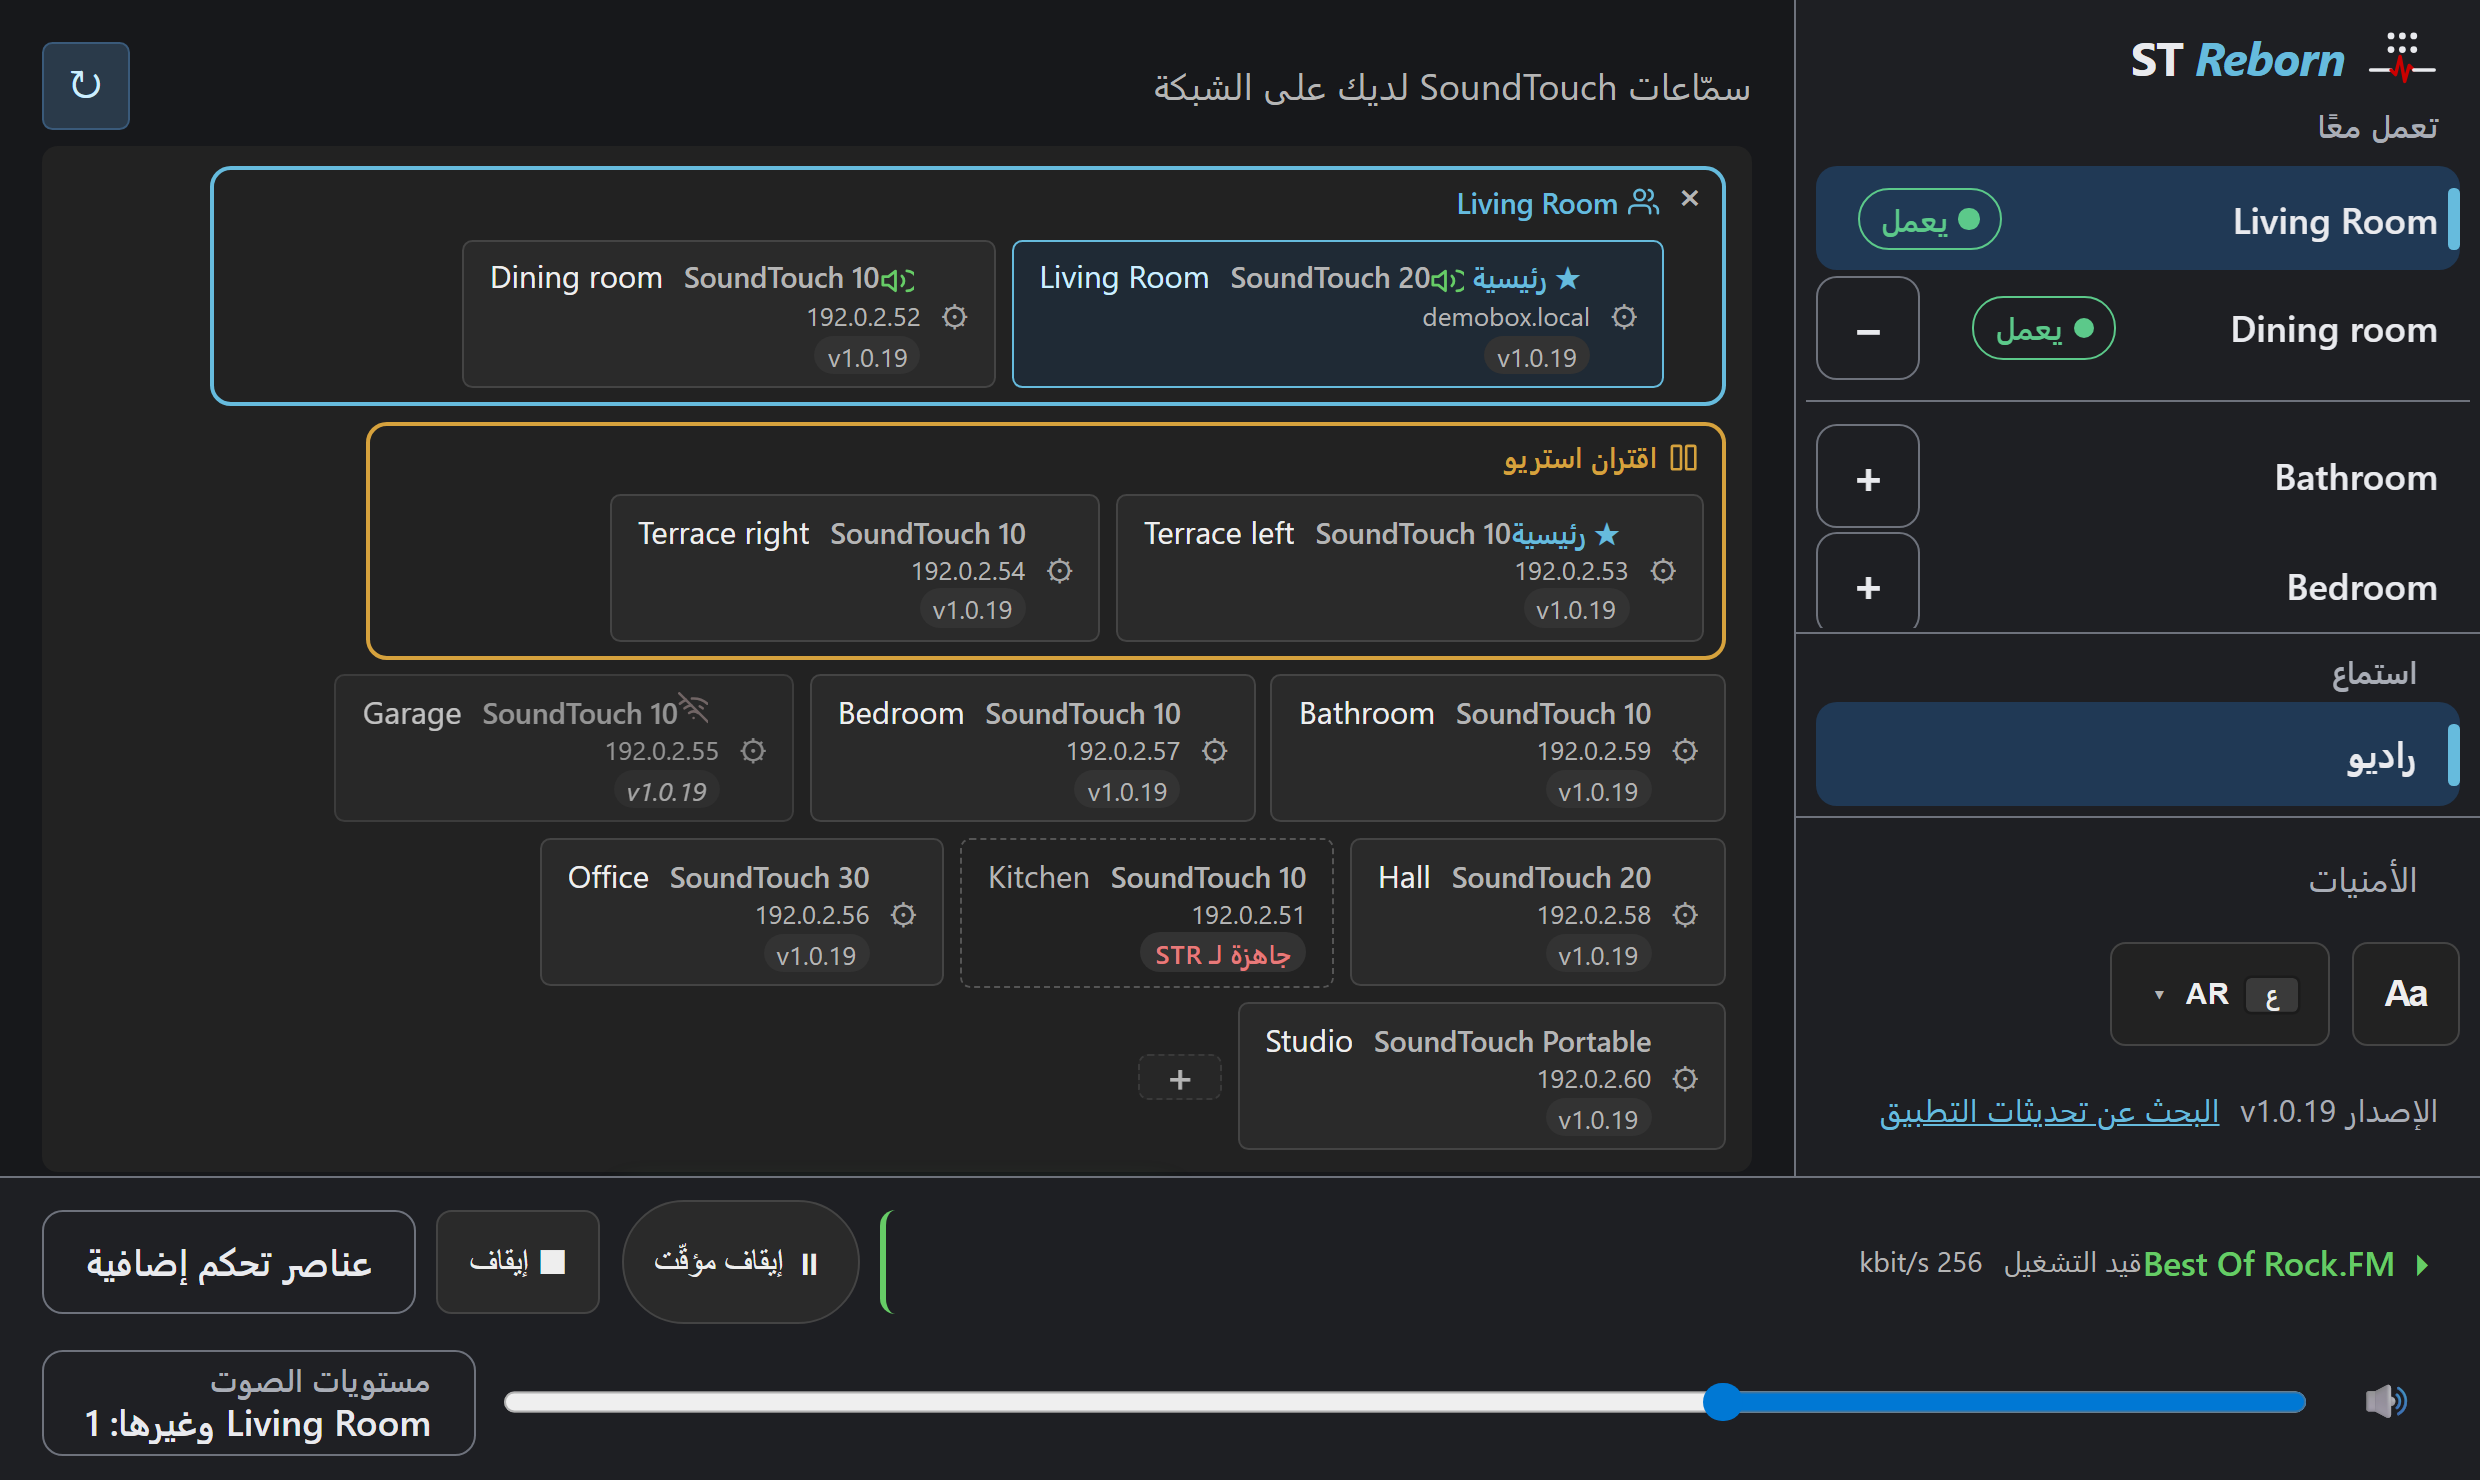
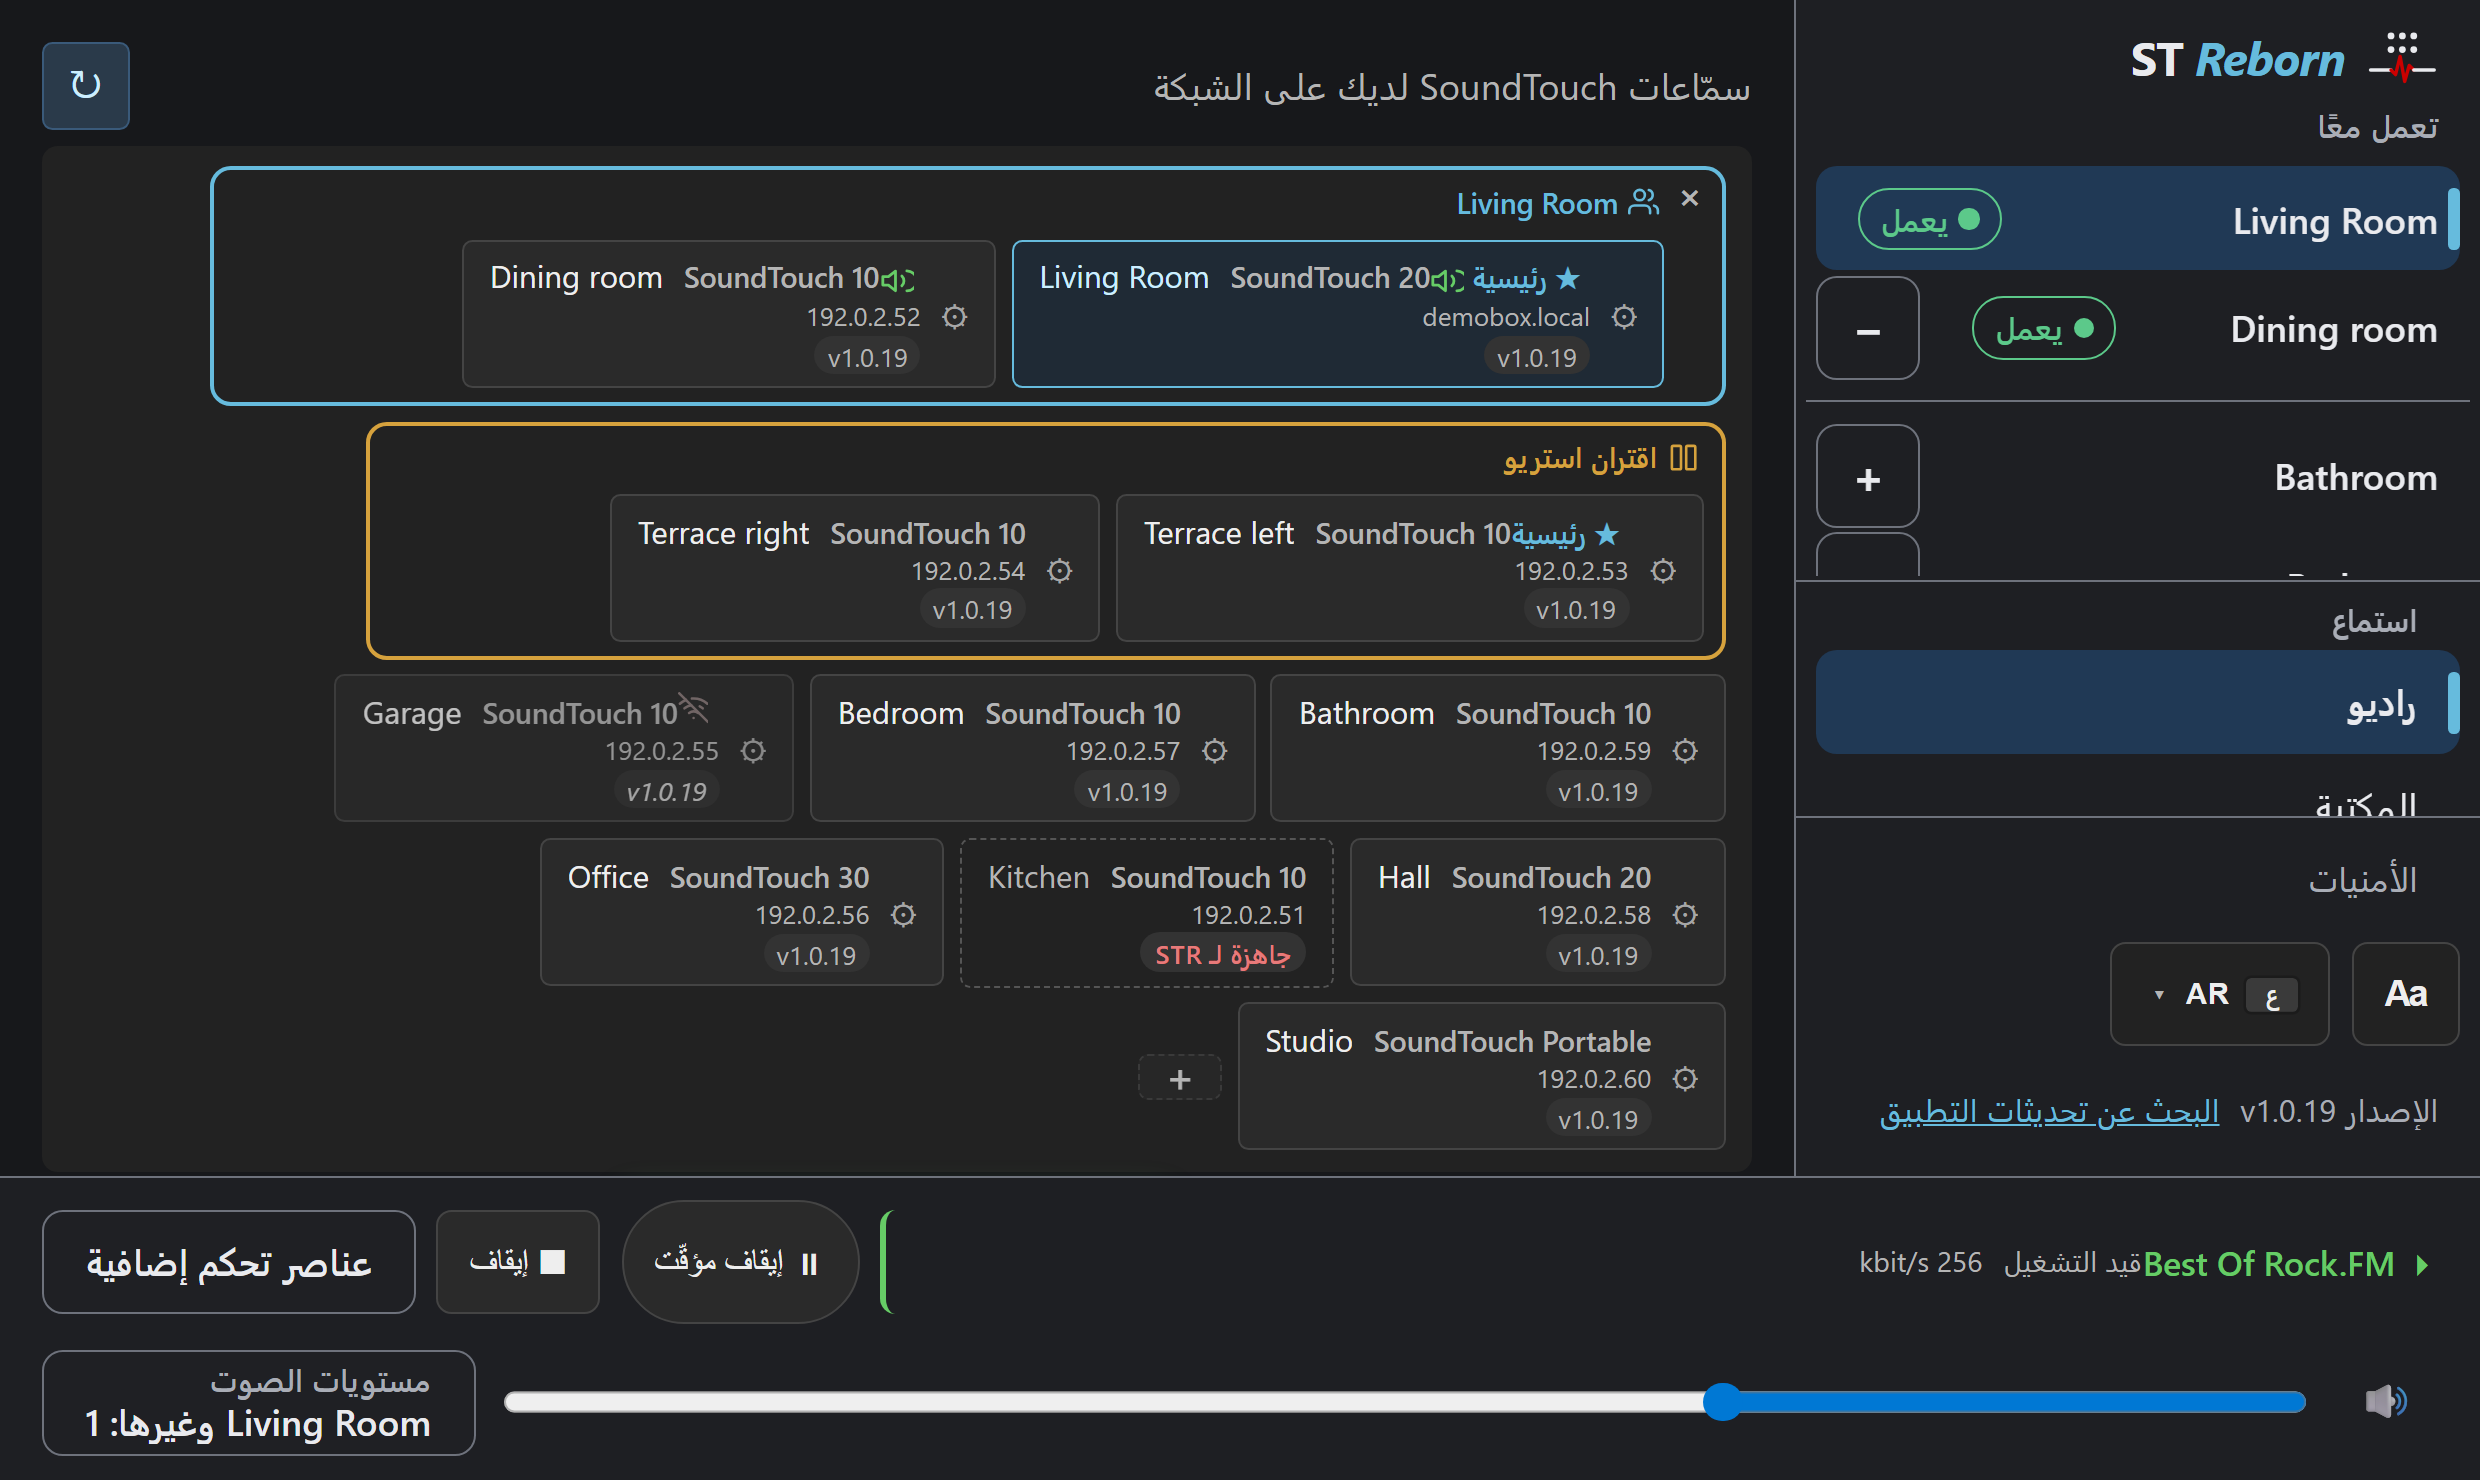
fix(app): in the UI 2.0 preview, the sidebar menu stays usable at extra large text in a small window
At Extra large text in the 1000 x 600 window with a group playing, the
speaker section held a floor of the pinned group plus a row and a half of
the others no matter what, which squeezed the navigation entries to
nothing: Speaker settings was drawn under the Office row and the Aa /
language buttons and could not be clicked.

holdSpeakerFloor now keeps at least one and a half navigation entries in
every window; below the lists' own floor the speaker section becomes one
scroll box (is-squeezed) cut at a whole or half row, with the first row
always whole. rowsHeight now measures in layout units: the client rect it
used is scaled by the text-size zoom and came out a third too tall at
Extra large. The layout e2e checks that every sidebar entry takes a click
in every text size, layout and window, and the fixme is gone. The UI 2.0
Extra large screenshots are reshot (en, de, ar).

Claude-Session: https://claude.ai/code/session_01X9HSf1oekN41MYWuSpNkob

Changed region(s): [[0.7141, 0.373, 0.9935, 0.5595], [0.7452, 0.373, 0.7762, 0.4041]]

diff --git a/desktop-app/frontend/src/shell2/mount.js b/desktop-app/frontend/src/shell2/mount.js
@@ -476,11 +476,13 @@ function paintSpeakers(force) {
     const keepHost = inList ? active.dataset.host : '';
     const keepAct = inList && active.classList.contains('ui2-spk-act');
     const scrolls = [...lists.querySelectorAll('.ui2-spk-scroll, .ui2-spk-pinned .ui2-spk-list')].map((el) => el.scrollTop);
+    const listsTop = lists.scrollTop;
     lists.innerHTML = sidebarHTML(model, { focusHost: keepHost || rovingHost });
+    holdSpeakerFloor(lists);
     [...lists.querySelectorAll('.ui2-spk-scroll, .ui2-spk-pinned .ui2-spk-list')].forEach((el, i) => {
       if (typeof scrolls[i] === 'number') el.scrollTop = scrolls[i];
     });
-    holdSpeakerFloor(lists);
+    lists.scrollTop = listsTop;
     if (keepHost) {
       const sel = (cls) => [...lists.querySelectorAll(cls)].find((b) => b.dataset.host === keepHost);
       const again = (keepAct && sel('.ui2-spk-act')) || sel('.ui2-spk-pick');
@@ -503,11 +505,17 @@ function paintSpeakers(force) {
 //
 // In a window too short for that (a large text size, a low window) the floor
 // is held back so two and a half navigation entries and everything below them
-// stay on screen; the others then keep at least one row and a half. The
-// sidebar's own size is watched, so a resize or a text size change sets the
-// floor again.
+// stay on screen; the others then keep at least one row and a half, as long as
+// that leaves the entries one and a half. When even that is too much (Extra
+// large in the smallest window), the entries keep one and a half and the
+// speakers get the rest, at least their first row whole. Below the floor of the
+// two lists the section turns into one scroll box (is-squeezed): the pinned
+// group and the others scroll together inside it, and nothing in the sidebar
+// is ever drawn over anything else. The sidebar's own size is watched, so a
+// resize or a text size change sets the floor again.
 const OTHERS_FLOOR_ROWS = 3;
 const NAV_RESERVE_ENTRIES = 2.5;
+const NAV_LEAST_ENTRIES = 1.5;
 let floorWatch = null;
 let floorWatched = null;
 function holdSpeakerFloor(lists) {
@@ -523,6 +531,8 @@ function holdSpeakerFloor(lists) {
     floorWatch.observe(side);
     floorWatched = side;
   }
+  // Measured as the two capped lists, never as the one squeezed scroll box.
+  section.classList.remove('is-squeezed');
   const pinned = lists.querySelector('.ui2-spk-pinned');
   const pinnedList = pinned && pinned.querySelector('.ui2-spk-list');
   const scroll = lists.querySelector('.ui2-spk-scroll');
@@ -532,28 +542,68 @@ function holdSpeakerFloor(lists) {
   const others = scroll ? rowsHeight(scroll, OTHERS_FLOOR_ROWS) : 0;
   const pad = Math.max(0, section.offsetHeight - lists.offsetHeight);
   let floor = pinnedH + others + pad;
+  // squeezed: the floor leaves less than the pinned group at its least and a
+  // row and a half of the others, so the two lists share one scroll instead.
+  let squeezed = false;
   if (side) {
     const nav = side.querySelector('.ui2-side-nav');
     const entry = side.querySelector('.ui2-side-scroll .ui2-nav-item');
     const small = side.querySelector('.ui2-side-small');
-    let rest = (entry ? entry.offsetHeight * NAV_RESERVE_ENTRIES : 0) + (small ? small.offsetHeight : 0);
-    for (const el of side.children) if (el !== section && el !== nav) rest += el.offsetHeight;
-    const least = pinnedH + (scroll ? rowsHeight(scroll, 1) : 0) + pad;
-    floor = Math.min(floor, Math.max(least, side.clientHeight - rest));
+    const entryH = entry ? entry.offsetHeight : 0;
+    let fixed = small ? small.offsetHeight : 0;
+    for (const el of side.children) if (el !== section && el !== nav) fixed += el.offsetHeight;
+    const room = Math.max(0, side.clientHeight - fixed);
+    // At the least the first row whole, its sub heading above it included.
+    const row = lists.querySelector('.ui2-spk-row');
+    const spkLeast = Math.min(floor, (row ? layoutTop(row) - layoutTop(lists) + row.offsetHeight + 4 : 0) + pad);
+    const navLeast = Math.max(0, room - entryH * NAV_LEAST_ENTRIES);
+    const listsLeast = pinnedH + (scroll ? rowsHeight(scroll, 1) : 0) + pad;
+    const spkRoom = Math.min(Math.max(room - entryH * NAV_RESERVE_ENTRIES, spkLeast), navLeast);
+    floor = Math.min(floor, Math.max(spkRoom, Math.min(listsLeast, navLeast)));
+    squeezed = floor < listsLeast - 1;
   }
+  section.classList.toggle('is-squeezed', squeezed);
+  // The one scroll box is cut at a row too, measured as it now stands.
+  if (squeezed) floor = halfRowCut(lists, floor - pad) + pad;
   section.style.minHeight = floor > 0 ? `${Math.ceil(floor)}px` : '';
+}
+
+// halfRowCut is the largest height up to room that ends halfway down a row of
+// the squeezed lists or just below a whole one (up to the 4px its focus ring
+// would like), or room itself when not even the first row's half fits.
+function halfRowCut(lists, room) {
+  let best = 0;
+  const top = layoutTop(lists);
+  for (const row of lists.querySelectorAll('.ui2-spk-row')) {
+    const at = layoutTop(row) - top;
+    const half = at + row.offsetHeight / 2;
+    const whole = at + row.offsetHeight;
+    if (half <= room) best = Math.max(best, half);
+    if (whole <= room) best = Math.max(best, Math.min(room, whole + 4));
+  }
+  return best || Math.max(0, room);
+}
+
+// layoutTop is el's distance from the top of the page in layout units: the
+// offset chain, which ignores scrolling and, unlike getBoundingClientRect,
+// is not scaled by the text-size zoom, so it compares with offsetHeight.
+function layoutTop(el) {
+  let y = 0;
+  for (let n = el; n; n = n.offsetParent) y += n.offsetTop;
+  return y;
 }
 
 // rowsHeight is the height a scrolling list needs to show its first n rows
 // whole and half of the next, its own padding included; the full height when
-// it holds no more than that.
+// it holds no more than that. Layout units throughout (layoutTop): a client
+// rect is zoomed by the text size and came out a third too tall at Extra
+// large.
 function rowsHeight(list, n) {
   const rows = [...list.querySelectorAll('.ui2-spk-row')];
   const full = list.scrollHeight + (list.offsetHeight - list.clientHeight);
   if (rows.length <= n) return full;
-  const top = list.getBoundingClientRect().top - list.scrollTop;
-  const next = rows[n].getBoundingClientRect();
-  return Math.min(full, next.top - top + next.height / 2);
+  const next = rows[n];
+  return Math.min(full, layoutTop(next) - layoutTop(list) + next.offsetHeight / 2);
 }
 
 // mirrorShellBadges copies the counts the tab bar shows onto the sidebar:

diff --git a/desktop-app/frontend/src/shell2/shell2.css b/desktop-app/frontend/src/shell2/shell2.css
@@ -489,6 +489,19 @@ html.ui2 .ui2-spk-scroll {
   overflow-y: auto;
   overscroll-behavior: contain;
 }
+/* Squeezed (mount.js holdSpeakerFloor): a sidebar too short for both capped
+   lists and the navigation entries. The lists give up their own scroll and
+   caps and scroll together in .ui2-spk-lists, so the section never paints
+   over the entries below it. */
+html.ui2 .ui2-spk.is-squeezed .ui2-spk-lists {
+  overflow-y: auto;
+  overscroll-behavior: contain;
+}
+html.ui2 .ui2-spk.is-squeezed :is(.ui2-spk-pinned .ui2-spk-list, .ui2-spk-scroll) {
+  flex: 0 0 auto;
+  max-height: none;
+  overflow: visible;
+}
 /* Named for screen readers (the section's heading); on screen the sub
    headings and the rows say it, and the height goes to the rows. */
 html.ui2 .u-sr-only {
